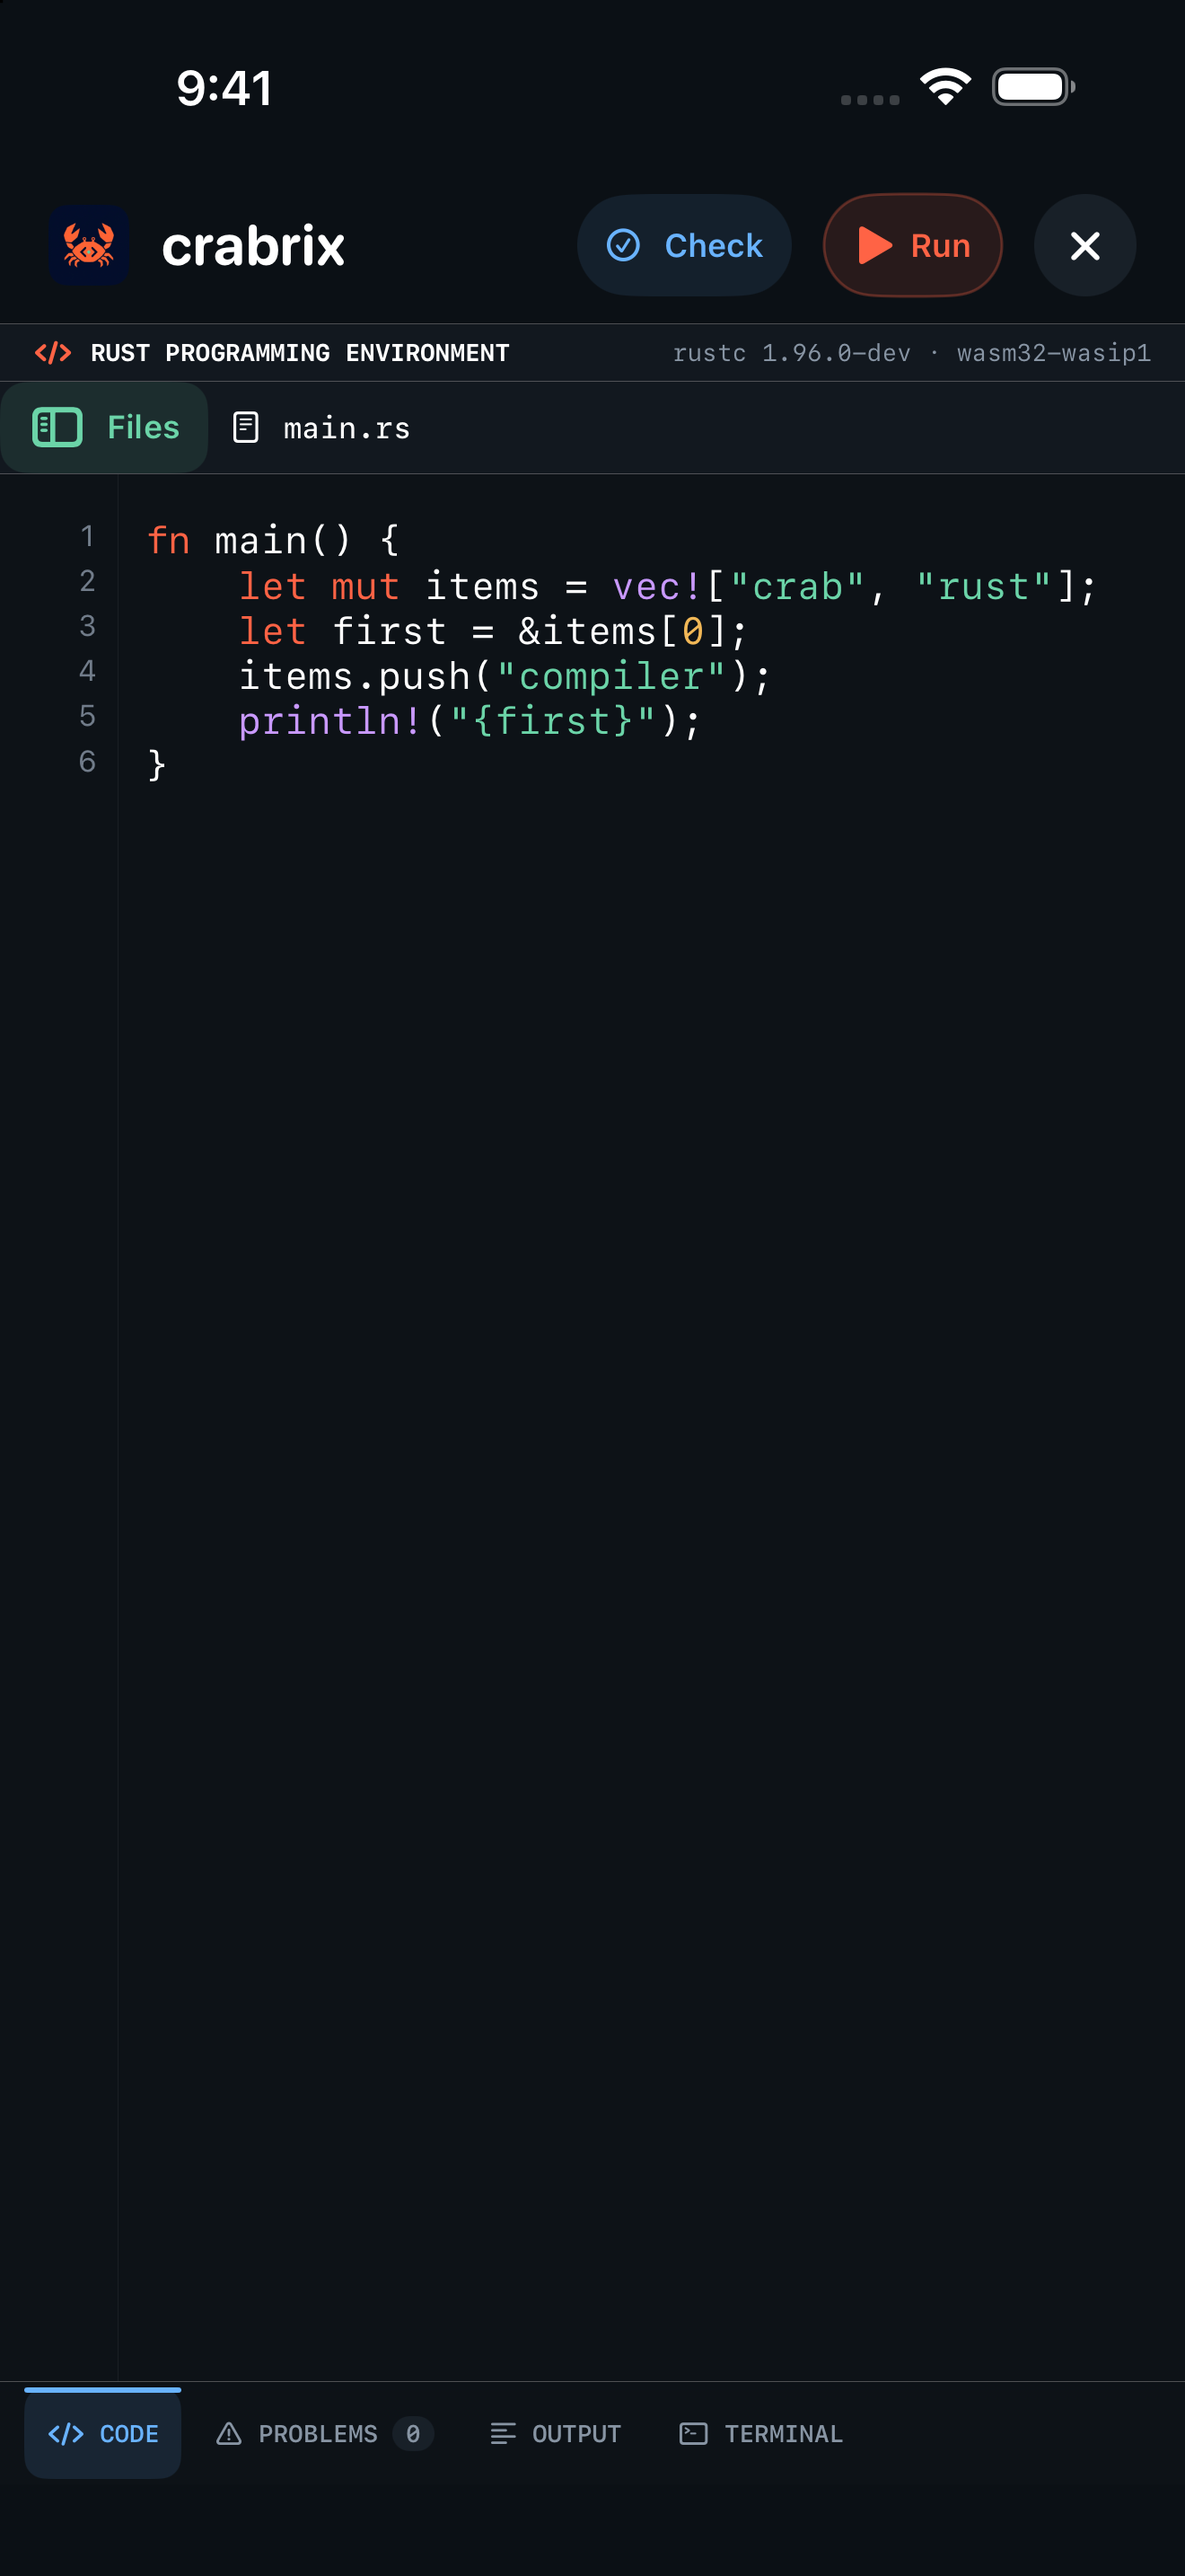
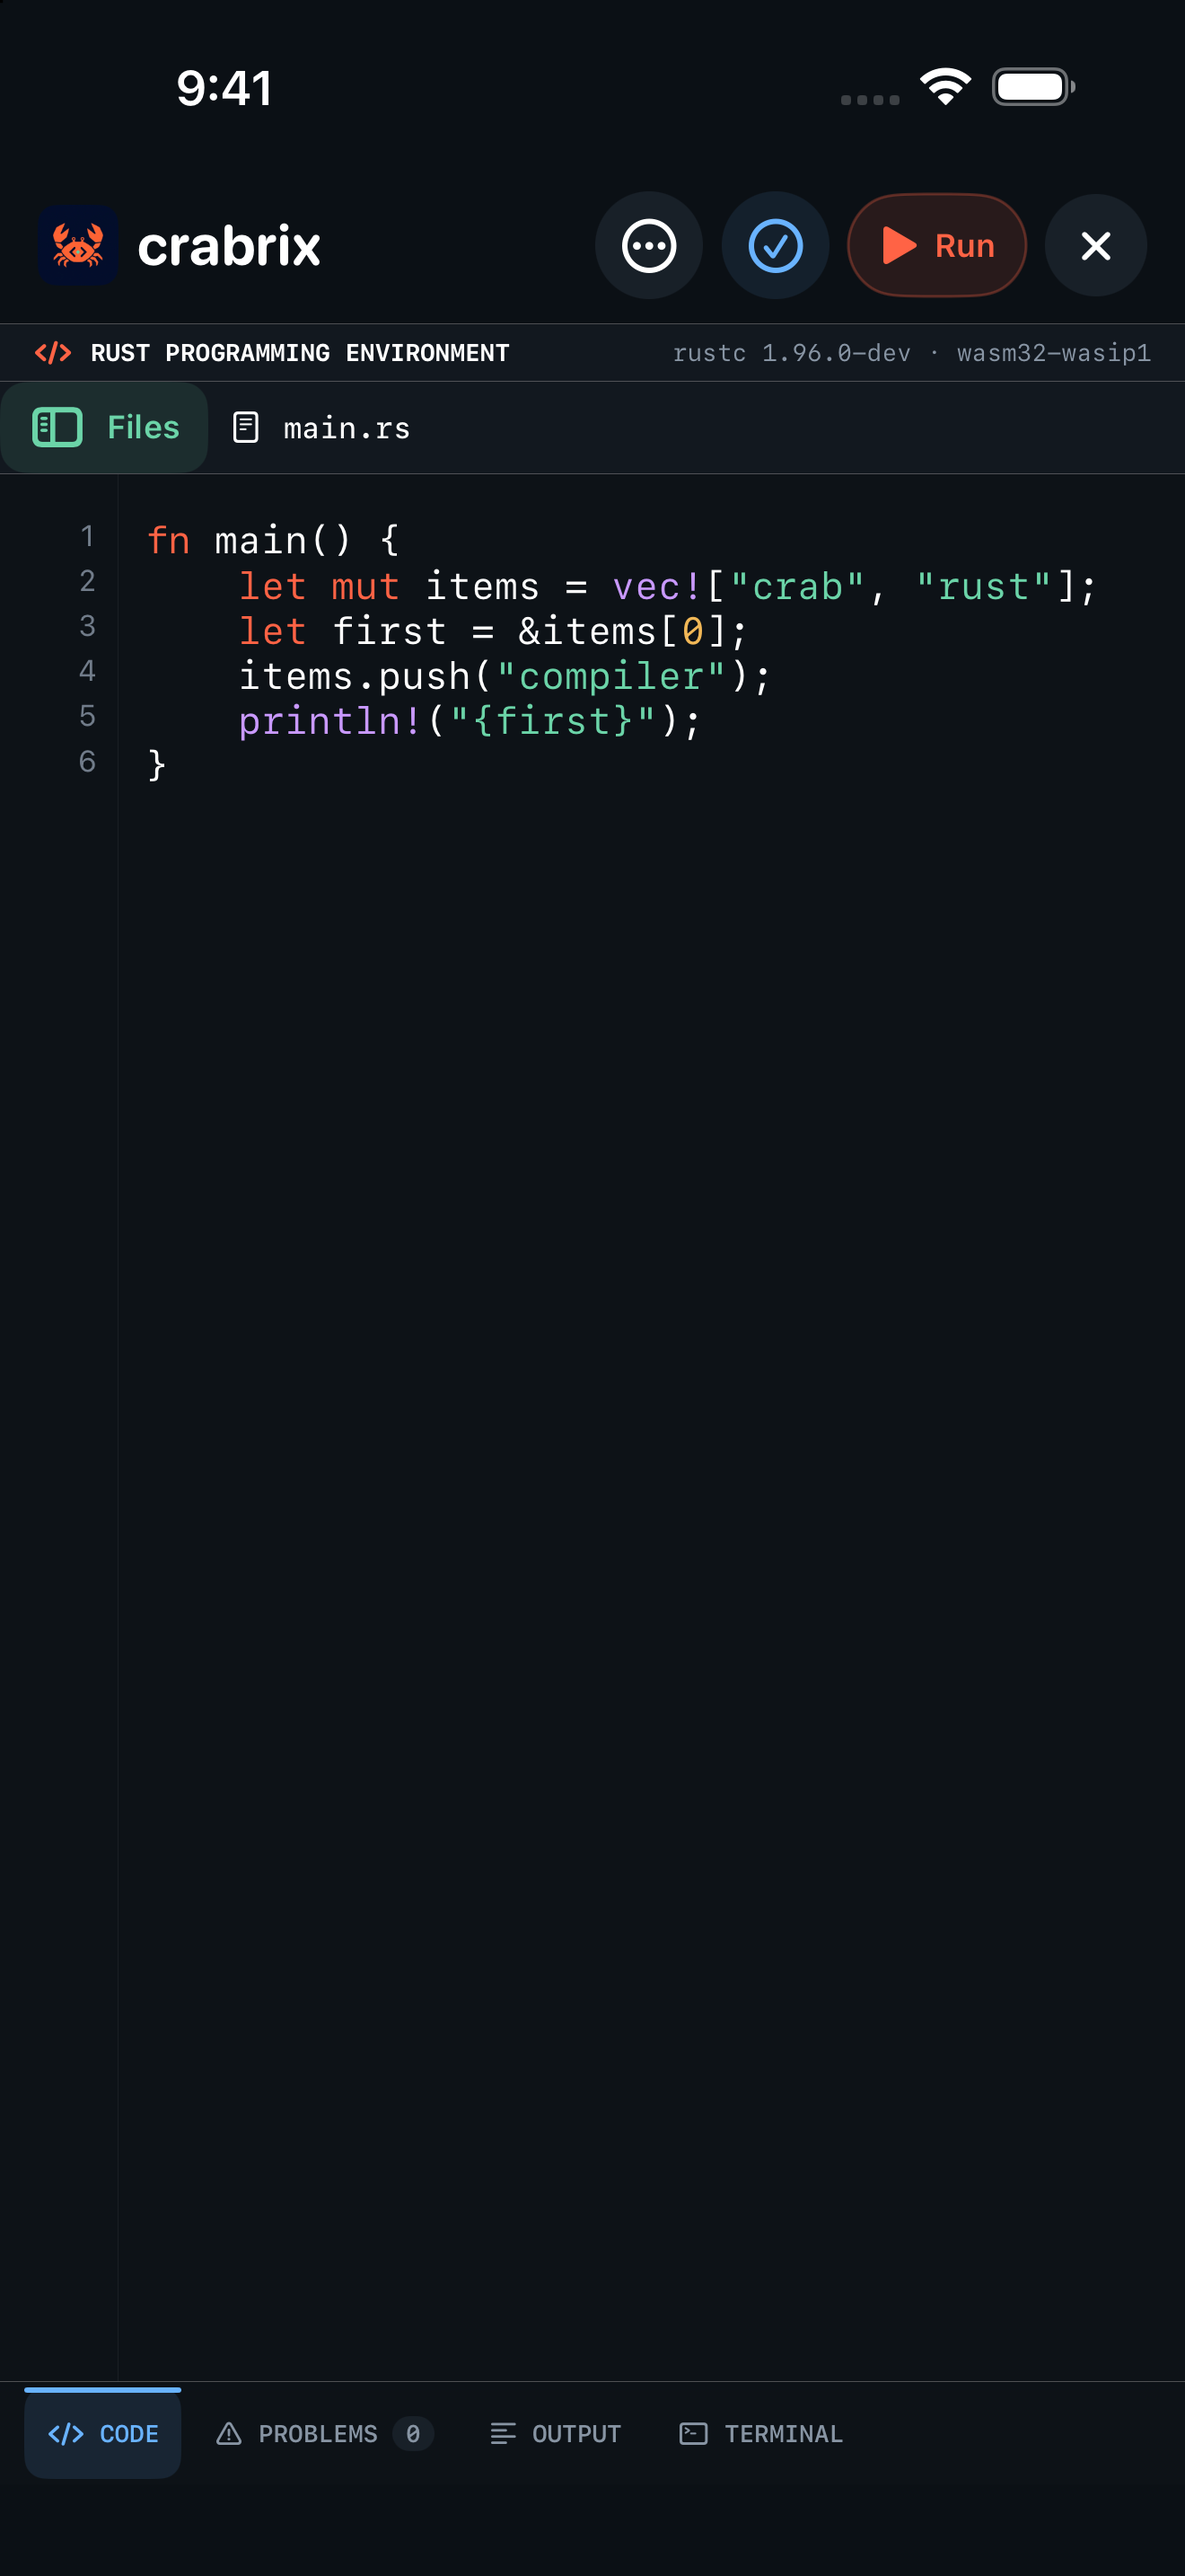
Restore project settings button in iPhone editor (#45)
* Restore project settings action in phone editor header

* Update TestFlight checks for project settings hotfix

* Document build 13 and refresh project menu screenshots

---------

diff --git a/Crabrix/UI/ContentView.swift b/Crabrix/UI/ContentView.swift
@@ -1153,7 +1153,7 @@ private struct AppHeader: View {
     }
 
     var body: some View {
-        HStack(spacing: 12) {
+        HStack(spacing: isPhone ? 7 : 12) {
             Image("CrabrixMark")
                 .resizable()
                 .scaledToFit()
@@ -1195,12 +1195,21 @@ private struct AppHeader: View {
                 .disabled(transfer.isWorking)
             } else {
                 if isPhone {
+                    Button(action: onProjectActions) {
+                        Image(systemName: "ellipsis.circle")
+                            .font(.system(size: 20, weight: .medium))
+                            .foregroundStyle(CrabrixTheme.primary)
+                            .frame(width: 40, height: 40)
+                            .background(CrabrixTheme.raised, in: Circle())
+                    }
+                    .buttonStyle(.plain)
+                    .accessibilityLabel("Project settings and share")
+
                     Button(action: onCheck) {
-                        Label("Check", systemImage: "checkmark.circle")
-                            .font(.caption.bold())
+                        Image(systemName: "checkmark.circle")
+                            .font(.system(size: 20, weight: .medium))
                             .foregroundStyle(CrabrixTheme.blue)
-                            .padding(.horizontal, 10)
-                            .frame(minHeight: 38)
+                            .frame(width: 40, height: 40)
                             .background(CrabrixTheme.blue.opacity(0.1), in: Capsule())
                     }
                     .buttonStyle(.plain)
@@ -1248,7 +1257,7 @@ private struct AppHeader: View {
                 .accessibilityLabel("Close editor")
             }
         }
-        .padding(.horizontal, 18)
+        .padding(.horizontal, isPhone ? 14 : 18)
         .frame(height: 58)
         .background(CrabrixTheme.background.opacity(0.97))
     }

diff --git a/Crabrix/UI/ProjectOrganizationViews.swift b/Crabrix/UI/ProjectOrganizationViews.swift
@@ -301,7 +301,7 @@ struct ProjectActionsSheet: View {
             }
             .background(CrabrixTheme.background.ignoresSafeArea())
             .foregroundStyle(CrabrixTheme.primary)
-            .navigationTitle("Project")
+            .navigationTitle("Project settings")
             .navigationBarTitleDisplayMode(.inline)
             .toolbar {
                 ToolbarItem(placement: .confirmationAction) {

diff --git a/README.md b/README.md
@@ -12,7 +12,7 @@
 
 ## Use Crabrix
 
-Open **Learn**, choose a course to download, and read it offline. Open a lesson starter as an editable project. In the project workspace, use **Check** to see compiler diagnostics, then **Run** to execute the program. Code, Problems, Output, and Terminal switch from the bottom of the editor; hints appear in Output for lesson projects. A project is a durable copy: editing or deleting course material does not edit that project.
+Open **Learn**, choose a course to download, and read it offline. Open a lesson starter as an editable project. In the project workspace, use **Check** to see compiler diagnostics, then **Run** to execute the program. The three-dot button opens project settings, save, and share. Code, Problems, Output, and Terminal switch from the bottom of the editor; hints appear in Output for lesson projects. A project is a durable copy: editing or deleting course material does not edit that project.
 
 **Projects** opens a short entry screen. **My Projects** opens the project manager; GitHub and Files/iCloud Drive imports live under **New Project**. The workspace opens on **Code** and returns to Code when you select another file. Project dependencies stay with that project. Settings offer Auto, Light, Dark, and a global Cyberpunk appearance, plus optional Face ID or device-passcode app protection. Rating and achievements remain local; Health and Energy are no longer part of learning or practice.
 
@@ -26,7 +26,7 @@ Crabrix 1.1 pins [CrabrixRuntime](https://github.com/sergii-ziborov/crabrix-runt
 
 In an A/B/A Release Simulator measurement using the same compiler and a heavy multi-crate CLI project, this runtime completed the selected workload **about 1.6× faster** than the preceding Crabrix runtime. The [raw observations](docs/performance/2026-10-02-sampled-cancellation-heavy-cli-simulator.json) document the source graph, output checks, cache preparation, and measurement limits. This result describes that workload on Simulator; other projects and devices need their own measurements. [Runtime integration](docs/runtime-integration.md) explains the implementation.
 
-Build 12 pins the [Crabrix source-built Rust toolchain](https://github.com/sergii-ziborov/crabrix-toolchain/releases/tag/toolchain-2026-10-02.1), `crabrix-rust-2026-10-02.1`. Its `rustc.wasm` and `wasm32-wasip1` sysroot are built from locked source and published with a signed descriptor, notices, compatibility results, and a two-build difference report. The build Mac verifies the descriptor and every artifact before bundling them; the phone does not download compiler or runtime updates. The two source builds have different raw digests, so the release claims source-pinned inputs rather than byte-identical reproducibility. See [toolchain provenance and limits](docs/toolchain.md).
+Build 13 pins the [Crabrix source-built Rust toolchain](https://github.com/sergii-ziborov/crabrix-toolchain/releases/tag/toolchain-2026-10-02.1), `crabrix-rust-2026-10-02.1`. Its `rustc.wasm` and `wasm32-wasip1` sysroot are built from locked source and published with a signed descriptor, notices, compatibility results, and a two-build difference report. The build Mac verifies the descriptor and every artifact before bundling them; the phone does not download compiler or runtime updates. The two source builds have different raw digests, so the release claims source-pinned inputs rather than byte-identical reproducibility. See [toolchain provenance and limits](docs/toolchain.md).
 
 The release graph has one runtime dependency. CoursePacks contain data, text, media, and editable Rust source; they cannot replace the compiler or install executable plugins. [Architecture](docs/architecture.md) and [course delivery](docs/course-delivery.md) explain the boundaries.
 

diff --git a/docs/VALIDATION.md b/docs/VALIDATION.md
@@ -1,5 +1,13 @@
 # Validation record — 2 October 2026
 
+## Build 13 project settings correction
+
+The build 12 phone editor had lost the three-dot project settings button. Build 13 restores it beside the compact Check control and routes it to the existing project settings, save and share sheet. A Release iPhone Simulator build passed; visual inspection of its editor screenshot found the three-dot, Check, Run and Close controls fitting on one row. The project settings sheet is reached by the same `onProjectActions` handler used elsewhere in the editor. Physical-device tapping and layout remain for the tester.
+
[1 lines of base64/hex data omitted]
+
+[Main run 36992483021](https://github.com/sergii-ziborov/Crabrix/actions/runs/36992483021) passed both the fast Swift suite and compiler gates for the prior build 12 code. The build 13 PR checks are a separate gate.
+
 ## Build 12 course and editor correction
 
 On a clean iOS Simulator install, Learn showed seven separately downloadable courses and no installed CoursePacks. The final 6.9-inch iPhone screenshot shows the download buttons and the Projects, Learn, and Settings tabs together. The editor screenshot shows Code, Problems, Output, and Terminal at the bottom, Check and Run at the top, and no phone Project Details control. The Release Simulator and signed iOS Release archive built successfully. Ten `CourseBootstrapTests` and two public `CourseDeliveryGateTests` passed with zero failures; those tests cover fresh selection, legacy transition, and signed delivery behavior. Physical-device tester results are pending.
